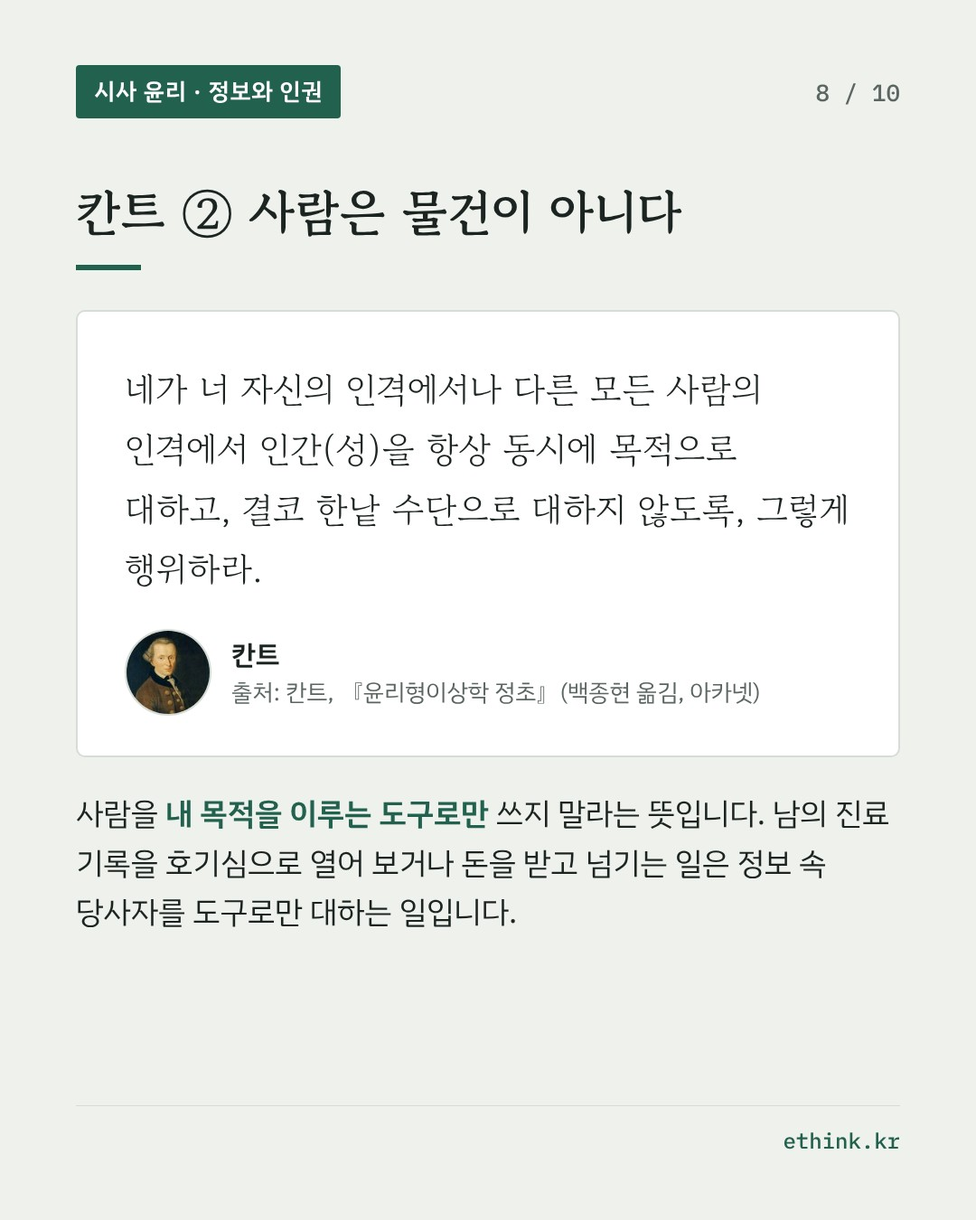
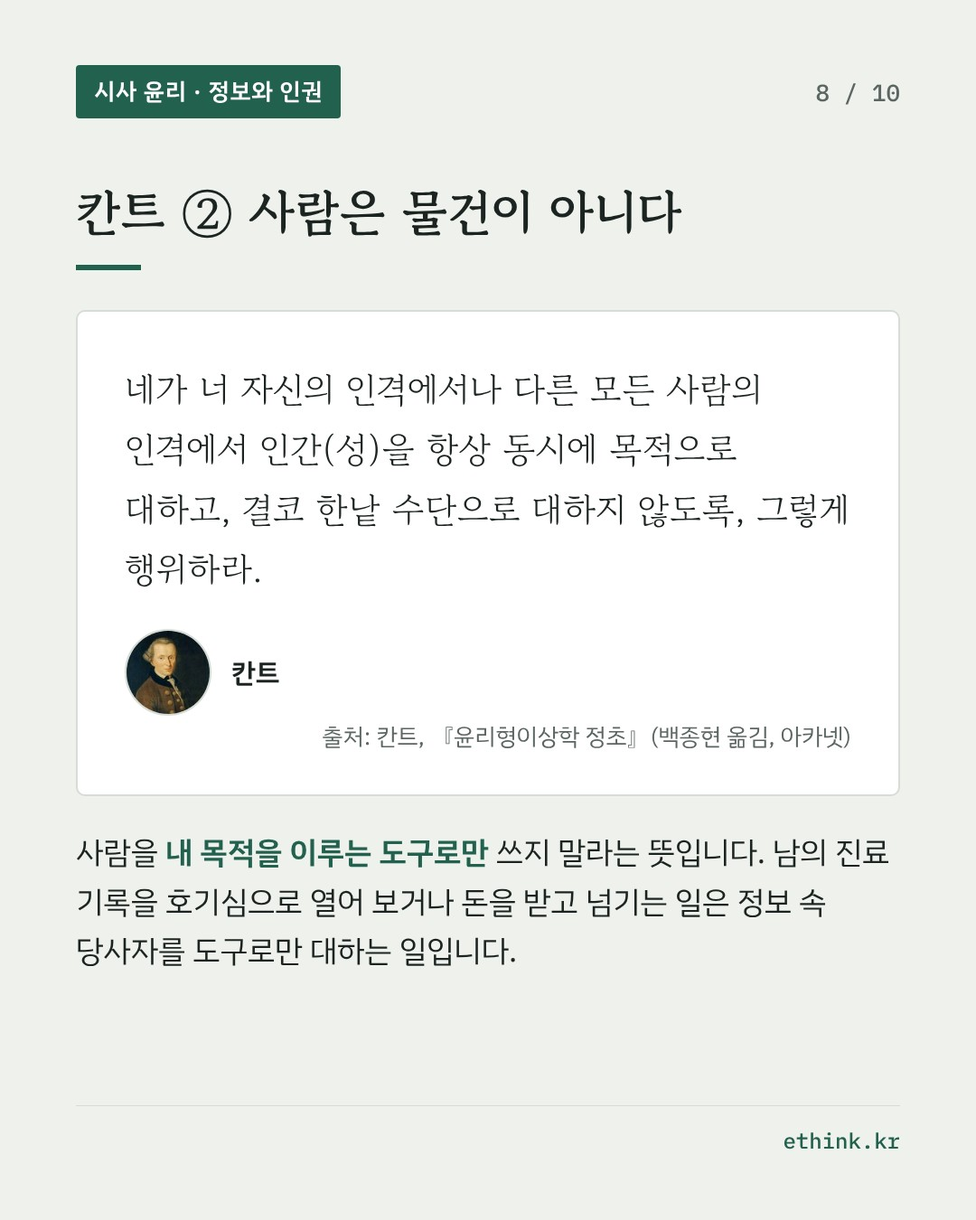
인용 출처를 이름·얼굴 아래 오른쪽 정렬로(웹·카드)
Claude-Session: https://claude.ai/code/session_015bQvLW38M9G43q7XUxVD63

Changed region(s): [[0.0611, 0.6533, 0.9167, 0.8089], [0.3361, 0.56, 0.8861, 0.6222], [0.2139, 0.5289, 0.3361, 0.5911]]

diff --git a/_includes/faces.html b/_includes/faces.html
@@ -1,11 +1,11 @@
 {%- comment -%}인용문 출처(figcaption)가 인물 이름으로 시작하면 그 앞에 작은 초상(또는 머리글자 원)을 붙입니다. 목록은 _data/faces.yml.{%- endcomment -%}
 {%- assign h = include.html -%}
 {%- for f in site.data.faces -%}{%- for m in f.match -%}
-{%- capture from -%}<figcaption>{{ m }}{%- endcapture -%}
+{%- capture from -%}<figcaption><span class="who">{{ m }}</span>{%- endcapture -%}
 {%- if f.img -%}
-{%- capture to -%}<figcaption><img class="face" src="{{ f.img | relative_url }}" alt="" width="28" height="28" loading="lazy" title="{{ f.name }} · 이미지: {{ f.credit }} ({{ f.license }})">{{ m }}{%- endcapture -%}
+{%- capture to -%}<figcaption><span class="who"><img class="face" src="{{ f.img | relative_url }}" alt="" width="28" height="28" loading="lazy" title="{{ f.name }} · 이미지: {{ f.credit }} ({{ f.license }})">{{ m }}</span>{%- endcapture -%}
 {%- else -%}
-{%- capture to -%}<figcaption><span class="face face-initial" aria-hidden="true" title="{{ f.name }}">{{ f.initial }}</span>{{ m }}{%- endcapture -%}
+{%- capture to -%}<figcaption><span class="who"><span class="face face-initial" aria-hidden="true" title="{{ f.name }}">{{ f.initial }}</span>{{ m }}</span>{%- endcapture -%}
 {%- endif -%}
 {%- assign h = h | replace: from, to -%}
 {%- endfor -%}{%- endfor -%}

diff --git a/assets/style.css b/assets/style.css
@@ -375,3 +375,8 @@ html { scroll-behavior: smooth; }
 .face-initial { display: inline-flex; align-items: center; justify-content: center; width: 28px; height: 28px; border-radius: 50%; background: var(--accent); color: #fff; font-family: var(--font-display); font-weight: 700; font-size: 0.8rem; vertical-align: middle; margin: -3px 0.5rem 0 0; }
 .sub-actions { display: flex; flex-wrap: wrap; align-items: center; gap: 0.6rem; margin: 0.9rem 0 0; }
 .sub-actions .openchat.form { border-color: var(--accent); }
+
+/* 인용 출처: 이름·얼굴은 왼쪽, 「출처: …」는 한 줄 아래 오른쪽 */
+.src figcaption .who { display: block; text-align: left; }
+.src figcaption .from { display: block; text-align: right; }
+.src figcaption .who + .from { margin-top: 0.15rem; }

diff --git a/_tools/WRITING_GUIDE.md b/_tools/WRITING_GUIDE.md
@@ -32,8 +32,8 @@
 - 불확실한 부분은 초안 보고에 "확인 필요"로 따로 적는다(본문에 지어 넣지 않는다).
 
 ## 4. 사상가 원문
-- 사상가가 나오면 원문을 함께 싣는다. **인용문 표기는 두 줄**이다: `<figure class="src"><blockquote><p>원문</p></blockquote><figcaption>말한 사람<br>출처: 저자, 『책』(옮긴이 옮김, 출판사) · 교과서 쪽수</figcaption></figure>`. 첫 줄은 얼굴과 이름(그 말을 한 사람), 둘째 줄은 「출처:」로 시작하는 책. 사람 없이 교과서만 인용하면 `<figcaption>출처: 『윤리와 사상』 교과서</figcaption>` 한 줄. 두 입장 비교는 `<div class="vs">` 안에 figure 두 개, 각 figure에 `<p class="vs-head">입장 · 사상가</p>`.
-- **인용문의 얼굴과 이름은 그 말을 한 사람**이다. 플라톤의 대화편에서 소크라테스나 글라우콘이 한 말이면 figcaption을 `소크라테스<br>출처: 플라톤, 『국가·정체』(박종현 역주, 서광사)`처럼 쓰고(첫 줄이 얼굴·이름, 둘째 줄이 출처. 「소크라테스 · 플라톤, …」처럼 한 줄에 이으면 책을 둘이 쓴 것처럼 보이므로 쓰지 않는다), 카드 뉴스는 `who: 소크라테스`, `source: 플라톤, 『국가·정체』(…)`로 쓴다(카드가 「출처:」를 자동으로 붙인다). 저자가 직접 한 말이면 `칸트<br>출처: 칸트, 『…』`로 쓴다. **교과서가 출처여도 교과서에 실린 원전 문장(인물의 목소리)이면 같은 규칙**이다: 첫 줄에 그 인물의 얼굴과 이름, 둘째 줄에 `출처: 『윤리와 사상』 교과서`(길벗 교과서면 출판사와 쪽수까지)를 쓰고 카드는 `who:`에 그 인물을 둔다. 교과서가 쓴 설명문(「플라톤은 …라고 보았다」처럼 교과서의 말)은 인물의 목소리가 아니므로 `출처: 『윤리와 사상』 교과서` 한 줄만 쓴다. 소크라테스는 초상이 있고, 글라우콘처럼 초상이 없는 화자는 머리글자 원으로 둔다(faces.yml).
+- 사상가가 나오면 원문을 함께 싣는다. **인용문 표기는 두 줄**이다: `<figure class="src"><blockquote><p>원문</p></blockquote><figcaption><span class="who">말한 사람</span><span class="from">출처: 저자, 『책』(옮긴이 옮김, 출판사) · 교과서 쪽수</span></figcaption></figure>`. 첫 줄은 얼굴과 이름(그 말을 한 사람), 둘째 줄은 「출처:」로 시작하는 책. 사람 없이 교과서만 인용하면 `<figcaption><span class="from">출처: 『윤리와 사상』 교과서</span></figcaption>` 한 줄. 두 입장 비교는 `<div class="vs">` 안에 figure 두 개, 각 figure에 `<p class="vs-head">입장 · 사상가</p>`.
+- **인용문의 얼굴과 이름은 그 말을 한 사람**이다. 플라톤의 대화편에서 소크라테스나 글라우콘이 한 말이면 figcaption을 `<span class="who">소크라테스</span><span class="from">출처: 플라톤, 『국가·정체』(박종현 역주, 서광사)</span>`처럼 쓰고(첫 줄이 얼굴·이름(왼쪽), 둘째 줄이 출처(오른쪽 정렬). 「소크라테스 · 플라톤, …」처럼 한 줄에 이으면 책을 둘이 쓴 것처럼 보이므로 쓰지 않는다), 카드 뉴스는 `who: 소크라테스`, `source: 플라톤, 『국가·정체』(…)`로 쓴다(카드가 「출처:」를 자동으로 붙인다). 저자가 직접 한 말이면 `<span class="who">칸트</span><span class="from">출처: 칸트, 『…』</span>`로 쓴다. **교과서가 출처여도 교과서에 실린 원전 문장(인물의 목소리)이면 같은 규칙**이다: 첫 줄에 그 인물의 얼굴과 이름, 둘째 줄에 `출처: 『윤리와 사상』 교과서`(길벗 교과서면 출판사와 쪽수까지)를 쓰고 카드는 `who:`에 그 인물을 둔다. 교과서가 쓴 설명문(「플라톤은 …라고 보았다」처럼 교과서의 말)은 인물의 목소리가 아니므로 `출처: 『윤리와 사상』 교과서` 한 줄만 쓴다. 소크라테스는 초상이 있고, 글라우콘처럼 초상이 없는 화자는 머리글자 원으로 둔다(faces.yml).
 - 원문은 반드시 실제 텍스트에서 가져온다: 재형 님 옵시디언 볼트 `Vault/_library/`(책 OCR 원문, 읽기 전용)와 `Vault/textbook/`, 또는 확인 가능한 공개 원문. 기억으로 쓰거나 다듬어 만든 문장을 원문처럼 싣지 않는다. 찾지 못하면 그 자리에 `[원문 확인 필요: 사상가, 책, 찾을 대목]`을 남기고 보고한다.
 - 교과서 수록 원문이면 교과서와 사상가 책을 모두 출처로 적는다. 교과서는 『인문학과 윤리』(길벗) 80쪽처럼 (「수록」은 쓰지 않는다) 책 이름과 **쪽수**만 적고, 단원 이름이나 코너 이름(「사상으로 보는 윤리문제」, 「나의 인문학 노트」 등)은 적지 않는다. 쪽수는 Dropbox/AI 작업실/교과서 pdf로 콘텐츠 제작/의 교과서 PDF(한쪽보기)에서 pdftotext로 문장을 찾아 그 쪽에 인쇄된 번호로 확인한다. 단행본 『윤리 사상가로 읽는 통합사회』도 같은 방식으로 쪽수만 적는다(PDF: Dropbox/_드롭 창고/윤리 사상가로 읽는 통합사회 단행본 전체(표지포함).pdf, 두 쪽 펼침이라 인용문이 있는 쪽의 번호를 쓴다). 교과서가 아니면 사상가의 어느 책인지 밝힌다.
 - 원문을 찾는 순서: ① 볼트 `Vault/_library/`(재형 님 도서관 라이브러리)와 기출 문제 원문 자료집 → ② 실제 한국어 번역서에 실린 문장 → ③ 원어 원문을 검색해 직접 번역(번역했음을 출처에 밝힌다).
@@ -66,7 +66,7 @@
 - 교과서 단원 연계표에서 『인문학과 윤리』·『윤리문제 탐구』가 나오면 단원명 뒤에 줄을 바꿔 `<br><span class="tbl-note">(길벗 교과서 ○○~○○쪽)</span>`으로 붙인다(볼드 없이 한 단계 작은 글자). 쪽수는 Dropbox `AI 작업실/교과서 pdf로 콘텐츠 제작/인문학과 윤리 소단원별` 등 길벗 교과서 PDF에서 확인한다.
 
 - 「윤리로 읽는 책」 글에는 실제 책 표지를 넣는다. 알라딘(우선)·예스24·교보문고 상품 페이지의 og:image(알라딘은 cover500)를 받아 `assets/covers/<글 파일이름>.jpg`로 저장하고, front matter에 `cover: /assets/covers/….jpg`, `cover_from: 알라딘`, `buy: <상품 페이지 주소>`를 적는다. 표지 아래에 "표지 이미지: 알라딘"이 자동으로 붙는다.
-- 사상가 인용문(`<figure class="src">`)의 figcaption이 "칸트<br>"처럼 말한 사람 이름과 줄바꿈으로 시작하면 작은 초상이 자동으로 붙는다(`_data/faces.yml`, `assets/faces/*.jpg` 112×112). 글에 인용문으로 등장하는 모든 인물(사상가·저자·화자)에 적용한다. 새 인물이 나오면 위키미디어 공용에서 퍼블릭 도메인 또는 CC 라이선스 이미지를 찾아 라이선스를 확인하고 faces.yml에 항목(match는 `"이름<br />"`, img, credit, license, url)을 추가한다(112×112 정사각형, 얼굴 중심). 소개 페이지 「이미지 출처」에 자동으로 실린다. 생존 인물처럼 자유 이용 사진이 없으면 img 대신 `initial: 머리글자`로 넣는다(서점·언론 사진을 가져다 쓰지 않는다). 초안 보고에 "○○ 사진은 자유 이용본이 없어 머리글자로 넣었습니다"라고 적어 재형 님이 허락을 구할지 정하게 한다.
+- 사상가 인용문(`<figure class="src">`)의 figcaption이 "칸트<br>"처럼 말한 사람 이름과 줄바꿈으로 시작하면 작은 초상이 자동으로 붙는다(`_data/faces.yml`, `assets/faces/*.jpg` 112×112). 글에 인용문으로 등장하는 모든 인물(사상가·저자·화자)에 적용한다. 새 인물이 나오면 위키미디어 공용에서 퍼블릭 도메인 또는 CC 라이선스 이미지를 찾아 라이선스를 확인하고 faces.yml에 항목(match는 이름 그대로, img, credit, license, url)을 추가한다(112×112 정사각형, 얼굴 중심). 소개 페이지 「이미지 출처」에 자동으로 실린다. 생존 인물처럼 자유 이용 사진이 없으면 img 대신 `initial: 머리글자`로 넣는다(서점·언론 사진을 가져다 쓰지 않는다). 초안 보고에 "○○ 사진은 자유 이용본이 없어 머리글자로 넣었습니다"라고 적어 재형 님이 허락을 구할지 정하게 한다.
 
 ## 9. 독자가 쉽게 읽는 글
 - 독자는 고3~대학 1학년 수준으로 본다. 웹에서 한눈에 빨리 읽히게 문장을 짧게 쓰고, 철학 용어(의무에 맞는 행위, 목적들의 나라, 정보주체 등)는 처음 나올 때 쉬운 말로 먼저 풀어 쓴다. '정보의 주인'처럼 뜻이 모호한 말은 쓰지 않는다('정보 당사자', '그 정보의 본인').

diff --git a/_items/2026-10-24/1.md b/_items/2026-10-24/1.md
@@ -52,7 +52,7 @@ og_image: /assets/og/2026-10-24-1.jpg
 <blockquote>
 <p>만약에 이런 반지가 두 개 생겨서 하나는 올바른 사람이, 그리고 다른 하나는 올바르지 못한 사람이 끼게 된다면, 그런 경우에 올바름 속에 머무르면서 남의 것을 멀리하고 그것에 손을 대지 않을 정도로 그처럼 철석 같은 마음을 유지할 사람은 아무도 없을 것같이 생각됩니다. (…) 양쪽 다가 똑같은 방향으로 갈 겁니다.</p>
 </blockquote>
-<figcaption>글라우콘<br>출처: 플라톤, 『국가·정체』(박종현 역주, 서광사)</figcaption>
+<figcaption><span class="who">글라우콘</span><span class="from">출처: 플라톤, 『국가·정체』(박종현 역주, 서광사)</span></figcaption>
 </figure>
 
 이 반론은 이렇게 묻습니다. 벌과 비난을 피할 수 있다면, 그래도 정의롭게 살아야 할 이유가 있을까요? 공단의 조회 기록은 남기 때문에 직원이 정말 투명 인간이 되는 것은 아닙니다. 다만 무단 조회를 알아채는 데 길게는 1,135일이 걸린 적이 있다는 것은, 잘못이 오랫동안 드러나지 않을 수 있다는 뜻입니다. 이 점에서 반지 이야기를 이번 사건과 이어서 생각해 볼 수 있습니다.
@@ -63,7 +63,7 @@ og_image: /assets/og/2026-10-24-1.jpg
 <blockquote>
 <p>우리는 '올바름'이 그 자체로 혼 자체를 위해서 최선의 것임을 알게 되었으며, 혼으로서는, 자기가 '기게스의 반지'를 가졌건 갖지 않았건 간에, 그리고 그런 반지에 더하여 '보이지 않게 하는 (하데스의) 모자'를 가졌건 갖지 않았건 간에, 올바른 것들을 행하여야만 한다는 것도 알게 되지 않았는가?</p>
 </blockquote>
-<figcaption>소크라테스<br>출처: 플라톤, 『국가·정체』(박종현 역주, 서광사)</figcaption>
+<figcaption><span class="who">소크라테스</span><span class="from">출처: 플라톤, 『국가·정체』(박종현 역주, 서광사)</span></figcaption>
 </figure>
 
 여기서 '혼'은 영혼입니다. 반지가 있든 없든, 남에게 보이든 보이지 않든 올바르게 행동해야 한다는 말입니다. 이 생각을 이번 사건에 적용하면, '무단 조회를 어떻게 잡아낼까'와 함께 '남의 사생활을 존중하는 사람으로 일하려면 무엇이 필요할까'도 물을 수 있습니다.
@@ -74,7 +74,7 @@ og_image: /assets/og/2026-10-24-1.jpg
 <blockquote>
 <p>플라톤은 인간의 영혼을 구성하는 각 부분이 그 기능을 잘 발휘하면 기게스의 반지를 끼고서도 정의로울 수 있다고 보았다.</p>
 </blockquote>
-<figcaption>출처: 『윤리와 사상』 교과서</figcaption>
+<figcaption><span class="from">출처: 『윤리와 사상』 교과서</span></figcaption>
 </figure>
 
 『현대사회와 윤리』 교과서는 이 이야기를 온라인의 익명성과 이어서 풉니다.
@@ -83,7 +83,7 @@ og_image: /assets/og/2026-10-24-1.jpg
 <blockquote>
 <p>최근 증가하고 있는 사이버 폭력은 기게스의 반지를 떠오르게 한다. 누리꾼들이 기게스의 반지를 끼고 익명성 뒤에 숨어 거리낌 없이 악행을 저지르고 있는 모습이 연상된다. (…) 익명성 뒤에 숨을 수 있을지라도 인간은 내면의 도덕성으로 다른 사람과 사회에 해악을 끼치지 않을 수 있다는 것이다.</p>
 </blockquote>
-<figcaption>출처: 『현대사회와 윤리』 교과서</figcaption>
+<figcaption><span class="from">출처: 『현대사회와 윤리』 교과서</span></figcaption>
 </figure>
 
 개인정보를 다루는 사람의 조회 화면도 일종의 익명성입니다. 화면 뒤에서 누가 무엇을 보는지 다른 사람은 알기 어렵기 때문입니다.
@@ -96,7 +96,7 @@ og_image: /assets/og/2026-10-24-1.jpg
 <blockquote>
 <p>예컨대 가게 주인이 어리숙한 고객에게 바가지를 씌우지 않는 것은 물론 의무에 맞는 일이다. (…) 그러나 그렇다고 해서, 그 상인이 의무로부터, 그리고 정직의 원칙들에서 그렇게 처신한다고 믿기에는 아직 불충분하다. 그의 이익이 그것을 요구했을 수도 있는 것이다.</p>
 </blockquote>
-<figcaption>칸트<br>출처: 칸트, 『윤리형이상학 정초』(백종현 옮김, 아카넷)</figcaption>
+<figcaption><span class="who">칸트</span><span class="from">출처: 칸트, 『윤리형이상학 정초』(백종현 옮김, 아카넷)</span></figcaption>
 </figure>
 
 가게 주인이 손님을 속이지 않는 이유는 두 가지일 수 있습니다. 속이는 것이 옳지 않아서일 수도 있고, 소문이 나서 장사가 안될까 봐일 수도 있습니다. 겉으로 한 행동은 똑같습니다. 칸트는 옳기 때문에 하는 행동을 '의무로부터 나온 행위'라 하고, 규칙에는 맞지만 다른 이유로 하는 행동을 '의무에 맞는 행위'라고 합니다. 도덕적 가치가 있는 쪽은 앞의 경우입니다. 『현대사회와 윤리』 교과서도 같은 점을 설명합니다.
@@ -105,7 +105,7 @@ og_image: /assets/og/2026-10-24-1.jpg
 <blockquote>
 <p>행위의 도덕성은 선의지에 근거하였는지의 여부, 다시 말해 행위의 동기에 따라 결정된다. 그러므로 칸트는 좋은 결과를 가져온 행위일지라도 그것이 의무가 아닌 다른 의도, 즉 이익의 추구나 비난의 회피 등과 같은 의도에서 비롯하였다면 그 행위는 도덕적으로 옳지 않다고 보았다.</p>
 </blockquote>
-<figcaption>출처: 『현대사회와 윤리』 교과서</figcaption>
+<figcaption><span class="from">출처: 『현대사회와 윤리』 교과서</span></figcaption>
 </figure>
 
 여기서 '선의지'는 어떤 행위가 옳다는 이유만으로 그 행위를 하려는 의지입니다.
@@ -118,7 +118,7 @@ og_image: /assets/og/2026-10-24-1.jpg
 <blockquote>
 <p>네가 너 자신의 인격에서나 다른 모든 사람의 인격에서 인간(성)을 항상 동시에 목적으로 대하고, 결코 한낱 수단으로 대하지 않도록, 그렇게 행위하라.</p>
 </blockquote>
-<figcaption>칸트<br>출처: 칸트, 『윤리형이상학 정초』(백종현 옮김, 아카넷)</figcaption>
+<figcaption><span class="who">칸트</span><span class="from">출처: 칸트, 『윤리형이상학 정초』(백종현 옮김, 아카넷)</span></figcaption>
 </figure>
 
 다른 사람을 내 목적을 이루는 도구로만 쓰지 말고, 자기 삶과 목적을 가진 존재로 대하라는 뜻입니다. 도움을 주고받는 것 자체를 막는 말이 아니라, 사람을 오직 도구로만 쓰는 것이 문제라는 말입니다.
@@ -129,7 +129,7 @@ og_image: /assets/og/2026-10-24-1.jpg
 <blockquote>
 <p>두 번째 정언 명령은 사람과의 관계에서 상대방을 수단으로만 대해서는 안 되고 목적 그 자체로 대우해야 한다는 점에서 인간의 존엄성을 중시하고 있음을 알 수 있다.</p>
 </blockquote>
-<figcaption>출처: 『윤리와 사상』 교과서</figcaption>
+<figcaption><span class="from">출처: 『윤리와 사상』 교과서</span></figcaption>
 </figure>
 
 이 원칙에 비추어 보면 두 경우가 모두 문제입니다. 헤어진 연인의 병력과 소득이 드러나는 기록을 몰래 열어 보는 일은 그 사람의 사생활을 내 호기심을 채우는 데 쓰는 일입니다. 가입자 정보를 돈을 받고 넘기는 일은 정보에 담긴 사람의 삶을 내 이익을 위한 물건처럼 쓰는 일입니다. 둘 다 정보 속 당사자를 도구로만 대하는 일이고, 그 사람의 존엄성을 존중하지 않는 일입니다. 이 판단은 감시가 있든 없든 달라지지 않습니다.

diff --git a/_items/2026-10-16/1.md b/_items/2026-10-16/1.md
@@ -35,7 +35,7 @@ sources:
 <blockquote>
 <p>구조적이고 적극적인 평화는 억압을 자유로, 착취를 평등으로 대체하는 데서 성립한다. 또한 강요 대신 대화를, 분리 대신 통합을, 분열 대신 결속을, 소외 대신 참여를 지향함으로써 사회 구조 자체를 평화롭게 재편하려는 상태를 의미한다.</p>
 </blockquote>
-<figcaption>갈퉁<br>출처: 갈퉁, 『평화적 수단에 의한 평화』(강종일 외 옮김, 들녘) · 『윤리 사상가로 읽는 통합사회』(길벗) 274쪽</figcaption>
+<figcaption><span class="who">갈퉁</span><span class="from">출처: 갈퉁, 『평화적 수단에 의한 평화』(강종일 외 옮김, 들녘) · 『윤리 사상가로 읽는 통합사회』(길벗) 274쪽</span></figcaption>
 </figure>
 
 <figure class="fig">
@@ -58,11 +58,11 @@ sources:
 <figure class="src">
 <p class="vs-head">응보주의 · 칸트</p>
 <blockquote><p>공적 정의가 형벌의 기준으로 삼는 것은, 어떤 종류의 형벌이며 또 어느 정도의 형벌인가? 그 기준은 다름 아니라, 어느 한쪽으로 치우치지 않는 동등성, 곧 평등의 원리에 있다.</p></blockquote>
-<figcaption>칸트<br>출처: 칸트, 『윤리 형이상학』(백종현 옮김, 아카넷) · 『윤리 사상가로 읽는 통합사회』(길벗) 194쪽</figcaption>
+<figcaption><span class="who">칸트</span><span class="from">출처: 칸트, 『윤리 형이상학』(백종현 옮김, 아카넷) · 『윤리 사상가로 읽는 통합사회』(길벗) 194쪽</span></figcaption>
 </figure>
 <figure class="src">
 <p class="vs-head">공리주의 · 벤담</p>
 <blockquote><p>형벌은 언제나 하나의 해악이며, 그 자체로 악이다. 그러므로 공리의 원칙에 따르면, 형벌이 허용될 수 있다면 그것은 오직 더 큰 악을 방지하거나 제거하리라고 보장하는 한에서만 허용되어야 한다.</p></blockquote>
-<figcaption>벤담<br>출처: 벤담, 『도덕과 입법의 원칙에 대한 서론』(강준호 옮김, 아카넷) · 『윤리 사상가로 읽는 통합사회』(길벗) 202쪽</figcaption>
+<figcaption><span class="who">벤담</span><span class="from">출처: 벤담, 『도덕과 입법의 원칙에 대한 서론』(강준호 옮김, 아카넷) · 『윤리 사상가로 읽는 통합사회』(길벗) 202쪽</span></figcaption>
 </figure>
 </div>

diff --git a/_items/2026-10-16/3.md b/_items/2026-10-16/3.md
@@ -35,12 +35,12 @@ sources:
 <figure class="src">
 <p class="vs-head">밀</p>
 <blockquote><p>개인의 행위 가운데 사회가 정당하게 책임을 물을 수 있는 것은, 오직 그 행위가 타인과 관련되는 경우에 한정된다. 순전히 자기 자신에게만 관계되는 영역에서는, 개인의 독립성은 온전히 보장되어야 한다. 개인은 자신의 몸과 정신에 대해 스스로 주권을 지닌 존재이다.</p></blockquote>
-<figcaption>밀<br>출처: 밀, 『자유론』 제1장 · 『윤리 사상가로 읽는 통합사회』(길벗) 180쪽</figcaption>
+<figcaption><span class="who">밀</span><span class="from">출처: 밀, 『자유론』 제1장 · 『윤리 사상가로 읽는 통합사회』(길벗) 180쪽</span></figcaption>
 </figure>
 <figure class="src">
 <p class="vs-head">칸트</p>
 <blockquote><p>만약 그가, 힘겨운 상태에서 벗어나기 위해 그 자신을 파괴하는 것이라면, 그는 자신의 인격을, 생이 끝날 때까지 견딜 만한 상태로 보존하기 위한, 한낱 수단으로 이용하는 것이다. 그러나 인간은 물건이 아니고, 그러니까 한낱 수단으로 사용될 수 있는 어떤 것이 아니며, 오히려 그의 모든 행위에 있어 항상 목적 그 자체로 보아야 한다.</p></blockquote>
-<figcaption>칸트<br>출처: 칸트, 『윤리형이상학 정초』(백종현 옮김, 아카넷)</figcaption>
+<figcaption><span class="who">칸트</span><span class="from">출처: 칸트, 『윤리형이상학 정초』(백종현 옮김, 아카넷)</span></figcaption>
 </figure>
 </div>
 

diff --git a/_items/2026-10-16/2.md b/_items/2026-10-16/2.md
@@ -33,14 +33,14 @@ sources:
 <blockquote>
 <p>행위자는 자신의 행위에 책임을 져야 한다. 비록 원인이 악행이 아니었다 해도, 그리고 결과가 예정되거나 의도된 것이 아니라고 해도 저지른 피해를 보상해야 한다.</p>
 </blockquote>
-<figcaption>요나스<br>출처: 요나스, 『책임의 원칙』 · 『윤리문제 탐구』(길벗) 132쪽</figcaption>
+<figcaption><span class="who">요나스</span><span class="from">출처: 요나스, 『책임의 원칙』 · 『윤리문제 탐구』(길벗) 132쪽</span></figcaption>
 </figure>
 
 <figure class="src">
 <blockquote>
 <p>아직 존재하고 있지는 않지만 존재할 것으로 기대되는 미래 세대의 권리에 관하여 우리는 응답할 의무가 있다. 이런 의무 때문에 심각한 결과를 가져올 수 있는 행위를 할 때 우리는 그들에 대해 책임을 져야 한다.</p>
 </blockquote>
-<figcaption>요나스<br>출처: 요나스, 『책임의 원칙』 · 『인문학과 윤리』(길벗) 166쪽</figcaption>
+<figcaption><span class="who">요나스</span><span class="from">출처: 요나스, 『책임의 원칙』 · 『인문학과 윤리』(길벗) 166쪽</span></figcaption>
 </figure>
 
 칠판에 5개 위험 영역을 적고, 영역마다 "AI가 혼자 결정해도 되는 일"과 "반드시 사람이 확인해야 하는 일"을 모둠별로 나눠 봅니다. 아래 표의 예시 한 줄을 보여 주고 나머지 칸은 학생이 채웁니다.
